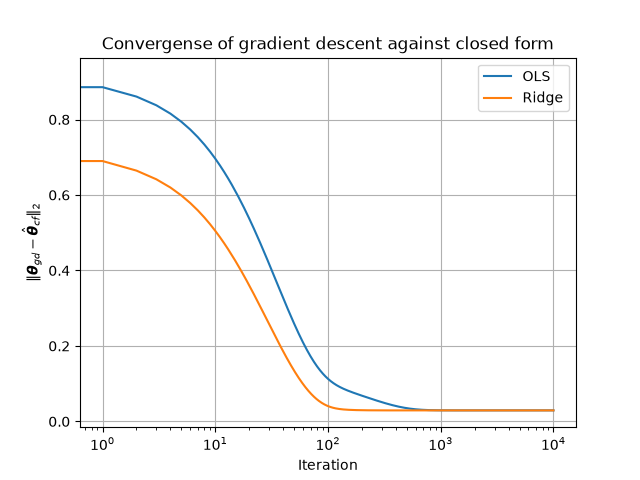
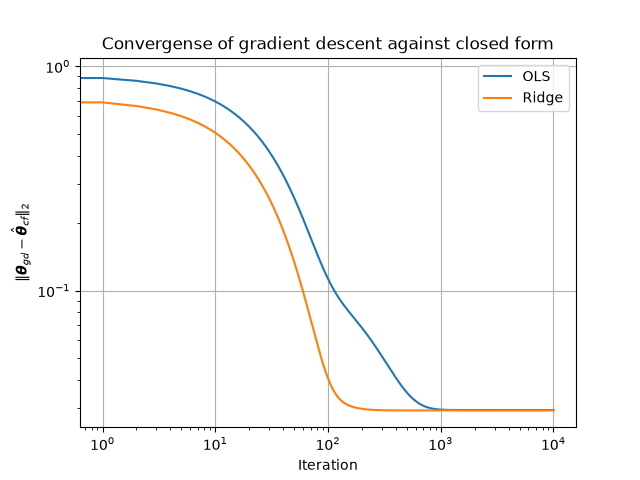
changed a figure

diff --git a/Project_1/Code/_Part_e.py b/Project_1/Code/_Part_e.py
@@ -40,8 +40,8 @@ gradient_OLS_jax = gradient_jax(theta0, X, y, penalty = "None")
 gradient_Ridge_jax = gradient_jax(theta0, X, y, lmbda = lam, penalty = "L2")
 
 """Difference between analytical and automatic differentiation"""
-print(f'OLS:    |AD - analytical| = {np.max(np.abs(gradient_OLS_jax - gradient_OLS)):.2e}')
-print(f'Ridge:  |AD - analytical| = {np.max(np.abs(gradient_Ridge_jax - gradient_Ridge)):.2e}')
+print(f'OLS:    |AD - analytical| = {np.max(np.abs(gradient_OLS_jax - gradient_OLS)):.4e}')
+print(f'Ridge:  |AD - analytical| = {np.max(np.abs(gradient_Ridge_jax - gradient_Ridge)):.4e}')
 
 
 """Gradient descent for OLS and Ridge"""
@@ -74,7 +74,6 @@ plt.legend()
 #plt.savefig("Part_e_costfunc_OLS_Ridge.png")
 plt.show()
 
-
 """Closed form to compare to"""
 theta_cf_OLS = closed_form(X, y)
 theta_cf_Ridge = closed_form(X, y, lmbda = lam)
@@ -92,7 +91,7 @@ plt.xlabel("Iteration")
 plt.ylabel(r"$\|\boldsymbol{\theta}_{gd}-\hat{\boldsymbol{\theta}}_{cf}\|_2$")
 plt.title("Convergense of gradient descent against closed form")
 plt.legend()
-#plt.yscale("log")
+plt.yscale("log")
 plt.xscale("log")
 plt.grid()
 #plt.savefig("Part_e_convergence_gd_cf.png")
